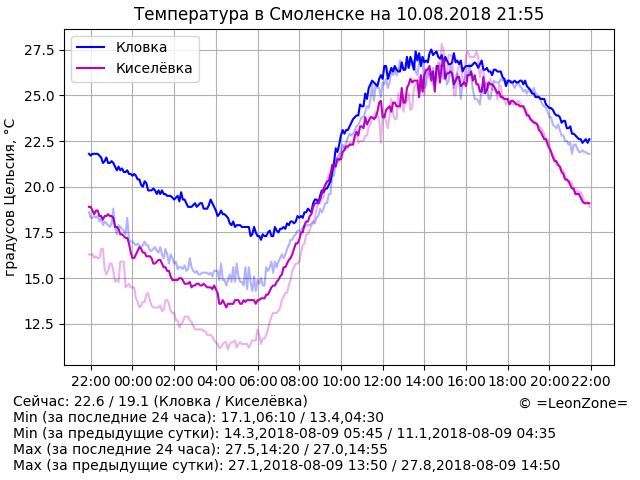
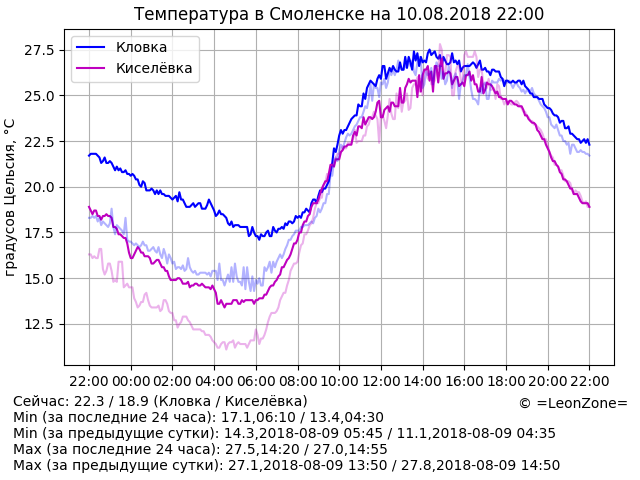
Update data

Changed region(s): [[0.125, 0.0625, 0.9375, 0.75], [0.0938, 0.7812, 0.9688, 0.8438], [0.7812, 0.0, 0.8438, 0.0625]]

diff --git a/index.html b/index.html
@@ -14,7 +14,7 @@
 	<p align="center"><script>document.write("<img src=\"graph.png?rnd="+Math.random()+"\" alt=\"Температура в Смоленске\" align=\"middle\" width=\"640\" height=\"480\" />")</script>
 	<p hidden="true">
 <!-- textinfo -->
-Сейчас: 22.6 / 19.1 (Кловка / Киселёвка)
+Сейчас: 22.3 / 18.9 (Кловка / Киселёвка)
 Min (за последние 24 часа): 17.1,06:10 / 13.4,04:30
 Min (за предыдущие сутки): 14.3,2018-08-09 05:45 / 11.1,2018-08-09 04:35
 Max (за последние 24 часа): 27.5,14:20 / 27.0,14:55
